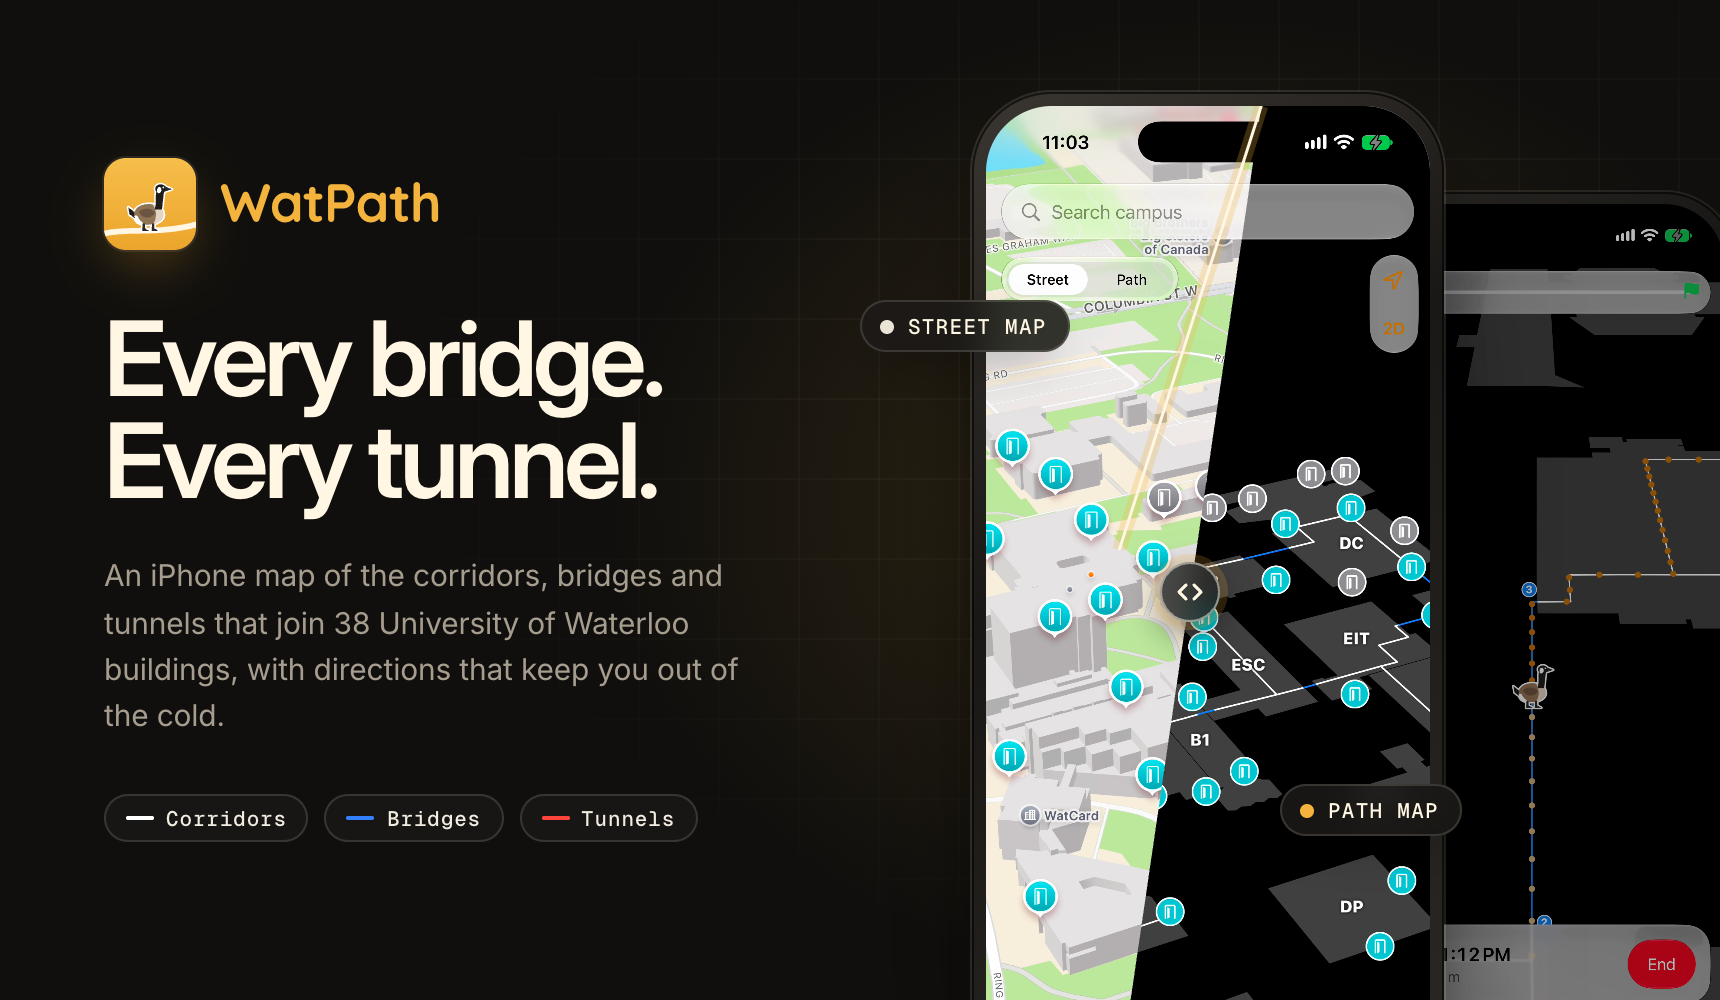
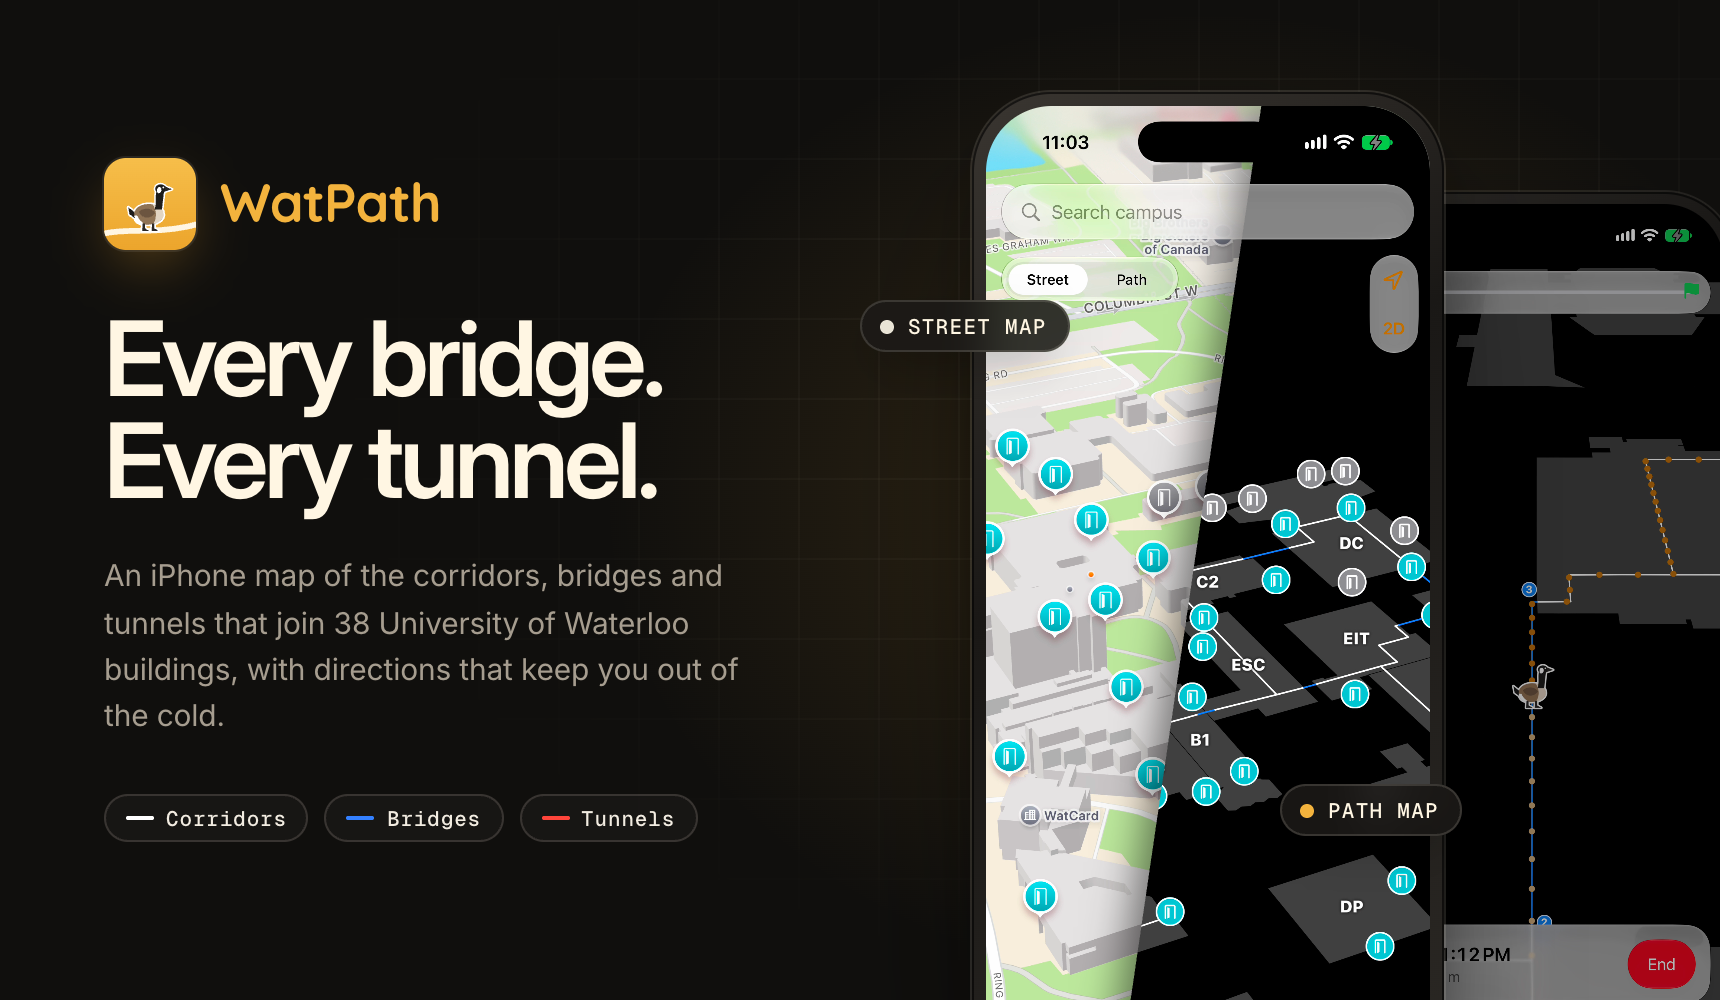
Drop the seam line from the hero's split phone
The bright line and the handle on it read as a stray mark. The Path Map
half now lies over the Street Map on a clean diagonal, with a soft
shadow along the cut.

Changed region(s): [[0.6163, 0.093, 0.7395, 1.0]]

diff --git a/design/readme/hero.html b/design/readme/hero.html
@@ -21,13 +21,9 @@ h1 { font-size: 52px; line-height: .98; letter-spacing: -.045em; }
 .legend .chip { color: var(--text); }
 .phone.front { left: 486px; top: 46px; width: 236px; height: 500px; --radius: 40px; --bezel: 7px; z-index: 2; }
 .phone.back { left: 664px; top: 96px; width: 204px; height: 432px; --radius: 36px; --bezel: 6px; z-index: 1; filter: brightness(.72) saturate(.9); }
+/* The Path Map lies over the Street Map, cut on a diagonal; the shadow follows the cut. */
+.split-shadow { position: absolute; inset: 0; filter: drop-shadow(-6px 0 10px rgb(0 0 0 / .5)); }
 .split { position: absolute; inset: 0; clip-path: polygon(62% 0, 100% 0, 100% 100%, 30% 100%); }
-.seam { position: absolute; inset: 0; z-index: 3; pointer-events: none; }
-.handle {
-  position: absolute; left: calc(46% - 15px); top: calc(50% - 15px); width: 30px; height: 30px; z-index: 4; border-radius: 50%;
-  background: rgb(20 19 17 / .72); backdrop-filter: blur(8px); border: 1px solid rgb(255 246 227 / .5);
-  display: grid; place-items: center; box-shadow: 0 0 0 4px rgb(243 179 61 / .18), 0 6px 18px rgb(0 0 0 / .5);
-}
 .tag {
   position: absolute; z-index: 5; display: flex; align-items: center; gap: 7px; height: 26px; padding: 0 11px 0 9px; border-radius: 999px;
   background: rgb(27 25 23 / .88); border: 1px solid var(--hair-2); backdrop-filter: blur(10px);
@@ -54,12 +50,7 @@ h1 { font-size: 52px; line-height: .98; letter-spacing: -.045em; }
 <div class="phone front">
   <div class="screen">
     <img src="../../build/readme/shots/street-3d.png" alt="">
-    <div class="split"><img src="../../build/readme/shots/path-3d.png" alt=""></div>
-    <svg class="seam" viewBox="0 0 100 100" preserveAspectRatio="none">
-      <line x1="62" y1="0" x2="30" y2="100" stroke="#F3B33D" stroke-width="5" opacity=".25" vector-effect="non-scaling-stroke" style="stroke-width:7px"/>
-      <line x1="62" y1="0" x2="30" y2="100" stroke="#FFF6E3" vector-effect="non-scaling-stroke" style="stroke-width:1.5px"/>
-    </svg>
-    <div class="handle"><svg width="14" height="14" viewBox="0 0 14 14" fill="none" stroke="#FFF6E3" stroke-width="1.6" stroke-linecap="round" stroke-linejoin="round"><path d="M5 3.5L1.5 7 5 10.5M9 3.5L12.5 7 9 10.5"/></svg></div>
+    <div class="split-shadow"><div class="split"><img src="../../build/readme/shots/path-3d.png" alt=""></div></div>
   </div>
 </div>
 <div class="tag" style="left: 430px; top: 150px"><i style="background:#E9E4D6"></i>Street Map</div>
